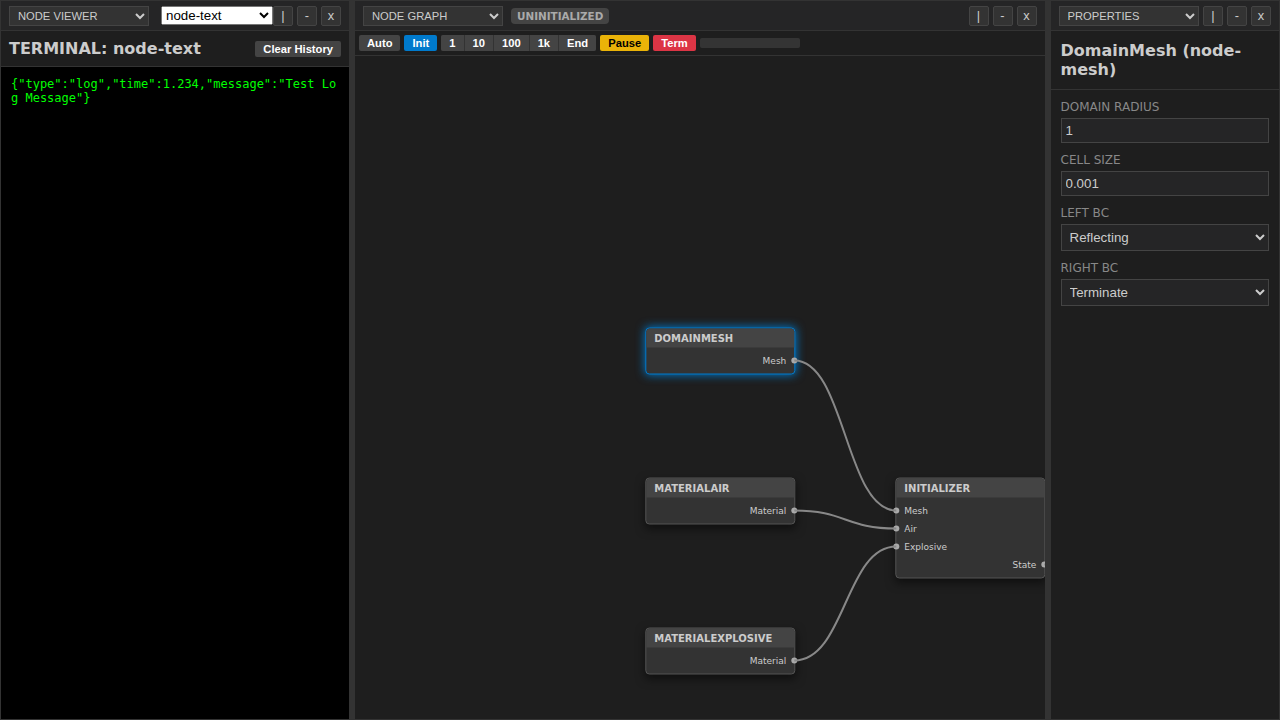
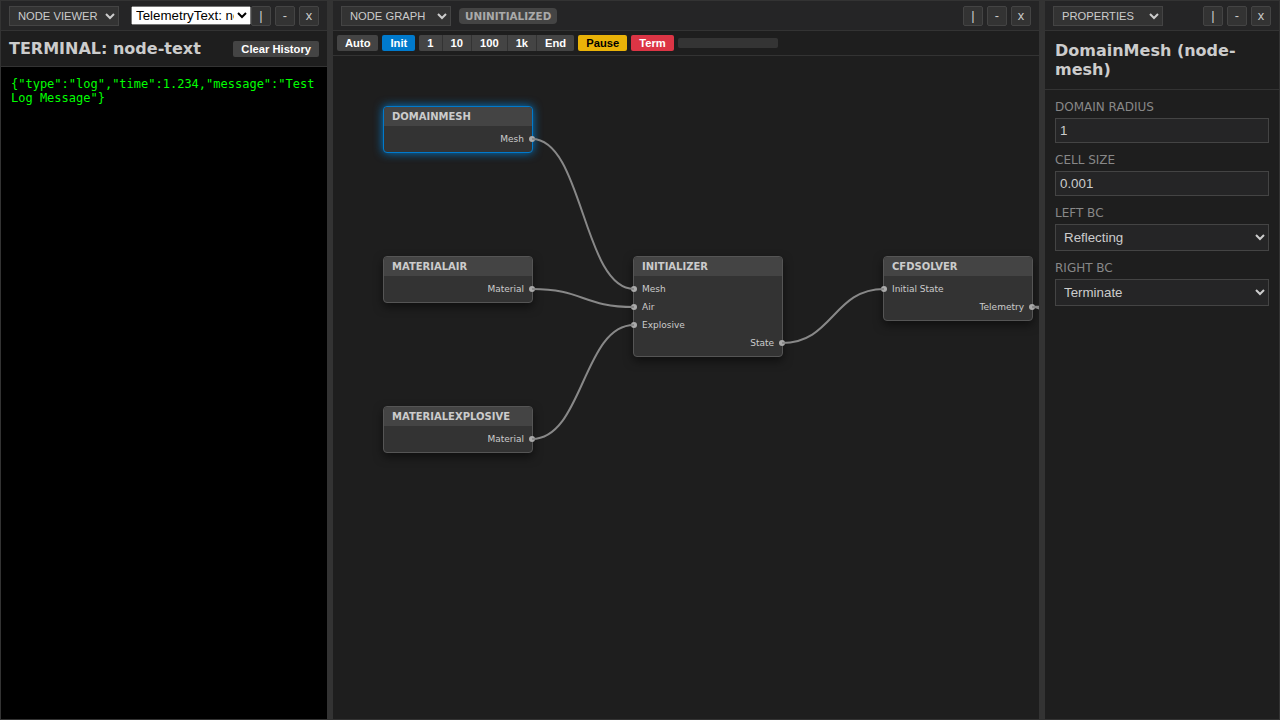
fix: disable canvas auto-centering, refine selectors, and decouple telemetry rendering
- Removed canvas auto-centering logic in GraphRenderer.
- Removed legacy Telemetry options from Panel Type selector.
- Improved Node Viewer sub-selector with type labels and placeholders.
- Implemented telemetry data buffering and requestAnimationFrame loop in NodeViewer to prevent graph blackouts.
- Cleaned up temporary build logs and screenshots.

diff --git a/frontend/src/node-viewer.ts b/frontend/src/node-viewer.ts
@@ -16,6 +16,9 @@ export class NodeViewer {
     private lastType: NodeType | null = null;
     private lastId: string | null = null;
 
+    private telemetryBuffer: any = null;
+    private renderRequestId: number | null = null;
+
     constructor(parent: HTMLElement, stateManager: StateManager) {
         this.container = document.createElement('div');
         this.container.className = 'node-viewer-container';
@@ -42,6 +45,7 @@ export class NodeViewer {
     }
 
     public destroy(): void {
+        this.stopRenderLoop();
         this.stateManager.offStateChange(this.stateListener);
         this.stateManager.offTelemetryUpdate(this.telemetryListener);
         if (this.chartWorker) this.chartWorker.terminate();
@@ -50,6 +54,7 @@ export class NodeViewer {
 
     public setNode(nodeId: string | null): void {
         if (this.currentNodeId === nodeId) return;
+        this.stopRenderLoop();
         this.currentNodeId = nodeId;
         this.render();
     }
@@ -98,6 +103,7 @@ export class NodeViewer {
     }
 
     private renderExpandedText(node: Node): void {
+        this.stopRenderLoop();
         if (this.chartWorker) {
             this.chartWorker.terminate();
             this.chartWorker = null;
@@ -151,6 +157,8 @@ export class NodeViewer {
     }
 
     private renderExpandedGraph(node: Node): void {
+        this.stopRenderLoop();
+        this.telemetryBuffer = null;
         if (this.chartWorker) {
             this.chartWorker.terminate();
             this.chartWorker = null;
@@ -233,6 +241,8 @@ export class NodeViewer {
 
         const initialData = this.stateManager.getTelemetry(node.id);
         if (initialData) this.handleTelemetry(node.id, initialData);
+
+        this.startRenderLoop();
     }
 
     private renderStandardNode(node: Node): void {
@@ -247,6 +257,28 @@ export class NodeViewer {
     private handleTelemetry(nodeId: string, data: any): void {
         if (nodeId !== this.currentNodeId) return;
         this.updateNodeViewerData(nodeId, data);
+    }
+
+    private startRenderLoop(): void {
+        if (this.renderRequestId !== null) return;
+        const loop = () => {
+            if (this.telemetryBuffer && this.chartWorker) {
+                this.chartWorker.postMessage({
+                    type: 'frame',
+                    data: this.telemetryBuffer.data
+                });
+                this.telemetryBuffer = null;
+            }
+            this.renderRequestId = requestAnimationFrame(loop);
+        };
+        this.renderRequestId = requestAnimationFrame(loop);
+    }
+
+    private stopRenderLoop(): void {
+        if (this.renderRequestId !== null) {
+            cancelAnimationFrame(this.renderRequestId);
+            this.renderRequestId = null;
+        }
     }
 
     private updateNodeViewerData(nodeId: string, data: any): void {
@@ -277,11 +309,8 @@ export class NodeViewer {
                 }
                 terminal.scrollTop = terminal.scrollHeight;
             }
-        } else if (node.type === 'TelemetryGraph' && this.chartWorker) {
-            this.chartWorker.postMessage({
-                type: 'frame',
-                data: data.data
-            });
+        } else if (node.type === 'TelemetryGraph') {
+            this.telemetryBuffer = data;
         }
         // Standard nodes (PropertyEditor) ignore high-frequency telemetry
     }

diff --git a/frontend/src/layout-manager.ts b/frontend/src/layout-manager.ts
@@ -143,7 +143,7 @@ export class LayoutManager {
 
         const select = document.createElement('select');
         select.className = 'header-select';
-        const types: PanelType[] = ['OUTLINER', 'NODE_GRAPH', 'PROPERTIES', 'TELEMETRY_GRAPH', 'TELEMETRY_TEXT', 'NODE_VIEWER'];
+        const types: PanelType[] = ['OUTLINER', 'NODE_GRAPH', 'PROPERTIES', 'NODE_VIEWER'];
         types.forEach(t => {
             const opt = document.createElement('option');
             opt.value = t;
@@ -162,10 +162,16 @@ export class LayoutManager {
 
             const state = this.stateManager.getCurrentState();
             if (state) {
+                const placeholder = document.createElement('option');
+                placeholder.value = "";
+                placeholder.textContent = "-- Select Node --";
+                if (!node.targetNodeId) placeholder.selected = true;
+                subSelect.appendChild(placeholder);
+
                 state.nodes.forEach(n => {
                     const opt = document.createElement('option');
                     opt.value = n.id;
-                    opt.textContent = n.id;
+                    opt.textContent = `${n.type}: ${n.id}`;
                     if (n.id === node.targetNodeId) opt.selected = true;
                     subSelect.appendChild(opt);
                 });

diff --git a/frontend/src/graph-renderer.ts b/frontend/src/graph-renderer.ts
@@ -377,14 +377,6 @@ export class GraphRenderer {
     private handleSelectionChange(nodeId: string | null): void {
         this.selectedNodeId = nodeId;
         if (this.onNodeSelected) this.onNodeSelected(nodeId);
-
-        if (nodeId) {
-            const state = this.stateManager.getCurrentState();
-            const node = state?.nodes.find(n => n.id === nodeId);
-            if (node) {
-                this.centerNode(node);
-            }
-        }
         this.render();
     }
 
